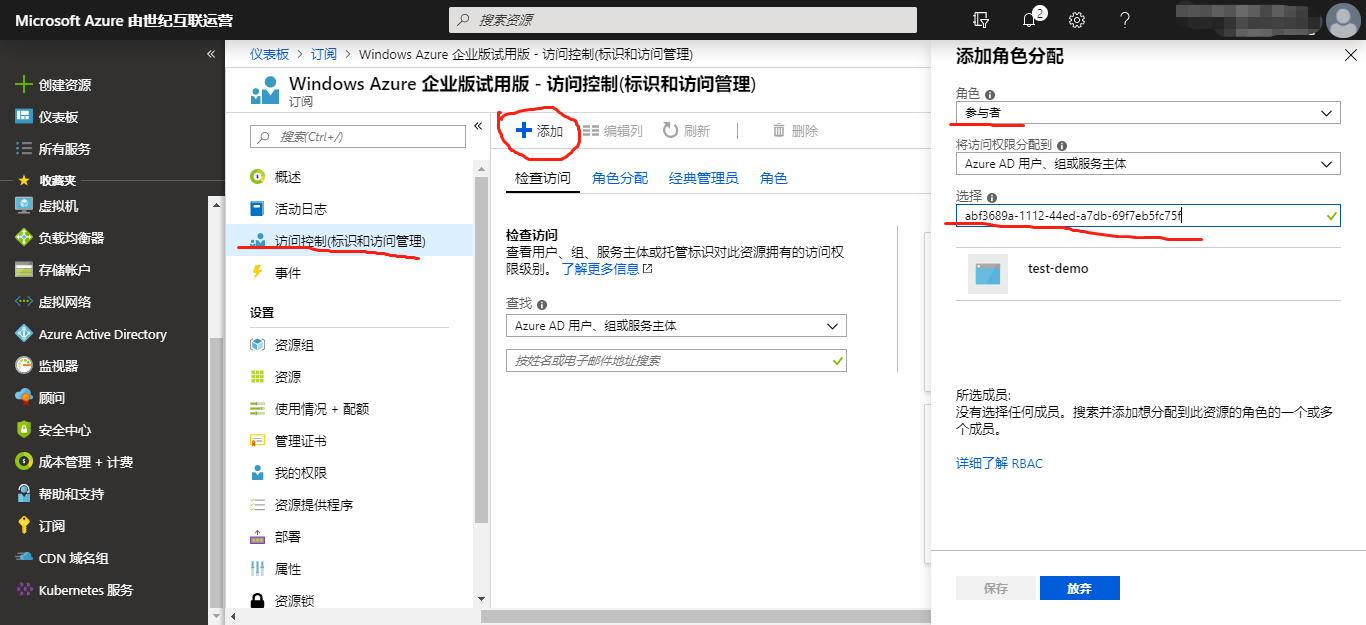
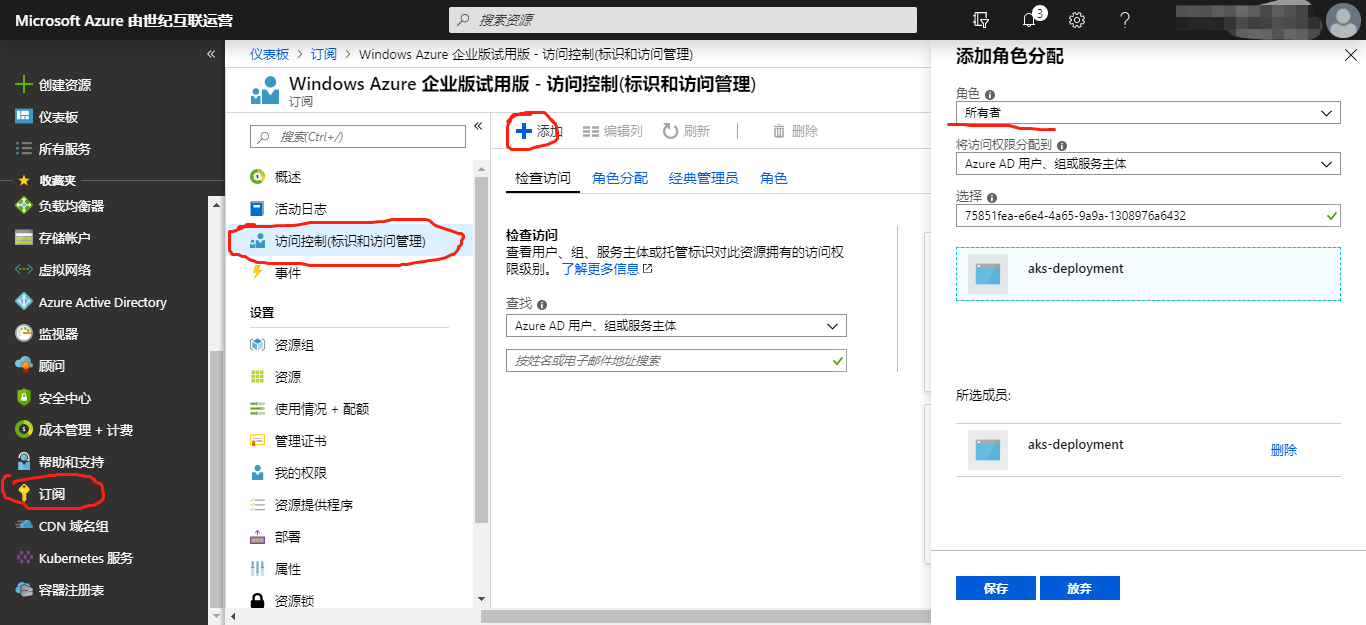
update contributor to owner

diff --git a/how-to-generate-service-principle/serviceprinciple.md b/how-to-generate-service-principle/serviceprinciple.md
@@ -4,7 +4,7 @@
 
 1. 登录到Azure管理门户，如：[Azure中国](https://portal.azure.cn)。
 
-2. 在左侧导航栏选择Azure Active Directory（如果没有请在All services里面搜索），然后再选择App registrations点击进入，如图。
+2. 在左侧导航栏选择Azure Active Directory（如果没有请在All services里面搜索），然后再选择App registrations（应用注册）点击进入，如图。
 ![Azure AD设置](./images/navbar.png)
 
 3. 点击创建（New registration），填写完名字后即可点击完成。
@@ -16,7 +16,7 @@
 5. 生成密码。在该页面选择证书和密码，然后点击创建新客户端密码，填写相关信息（说明、有效时限），点击添加。注意，请及时拷贝下生成的密码值，刷新页面后无法再次看到（万一忘记可以重新生成密码）
 ![App registration密码](./images/registration-password.png)
 
-6. 为生成的App registration赋予订阅的权限。在左侧导航栏选择订阅（Subscription），如果没有请在所有服务中查找。选择目标订阅，点击。然后选择访问控制（标识和访问管理），添加角色分配。填写相关信息（角色：参与者contributor，输入之前生成的应用程序ID搜索，点击搜索结果，保存）
+6. 为生成的App registration赋予订阅的权限。在左侧导航栏选择订阅（Subscription），如果没有请在所有服务中查找。选择目标订阅，点击。然后选择访问控制（标识和访问管理），添加角色分配。填写相关信息（角色：所有者owner，输入之前生成的应用程序ID搜索，点击搜索结果，保存）
 ![订阅](./images/subscription.png)
 ![主体授权](./images/app-authorize.png)
 
